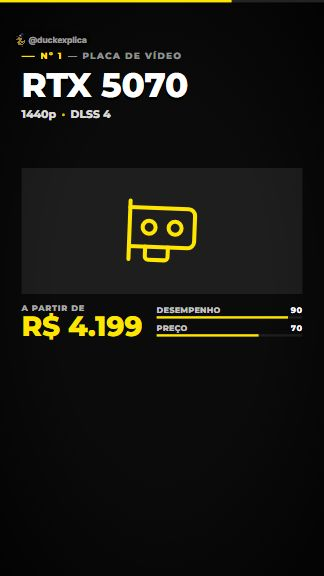
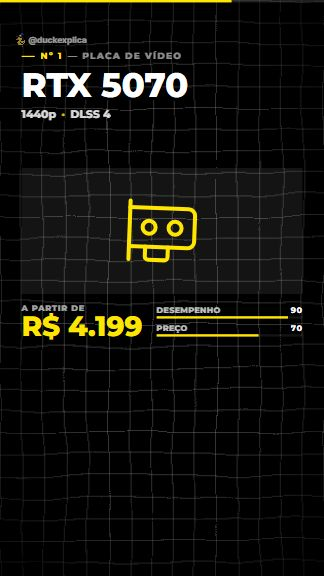
Fundos pretos com grelha de linhas brancas onduladas
Nova GrelhaOndulada (padrão de linhas + deslocamento de turbulência) nos
fundos dos estilos Neon e Pixel 3D, na faixa de cinema, nas palavras em
fundo escuro e nos números dos cortes.

diff --git a/src/cenas/Palavras.tsx b/src/cenas/Palavras.tsx
@@ -1,5 +1,6 @@
 import { AbsoluteFill, random, useVideoConfig } from "remotion";
 import { FONTES, pop, useFrame } from "../components/motion";
+import { GrelhaOndulada } from "../components/GrelhaOndulada";
 import { useOndular } from "../components/PapelMotion";
 import { CenaPalavras } from "../types";
 
@@ -26,10 +27,12 @@ export const Palavras: React.FC<{ cena: CenaPalavras; cor: string }> = ({ cena }
     <AbsoluteFill style={{
       background: papel
         ? "radial-gradient(ellipse at 40% 30%, #f1eee8, #d9d4ca 70%, #c9c2b6)"
-        : "radial-gradient(ellipse at 50% 40%, #1d1013, #09070a 70%)",
+        : "#000",
     }}>
+      {!papel && <GrelhaOndulada opacidade={0.6} />}
+      {!papel && <AbsoluteFill style={{ background: "radial-gradient(ellipse at 50% 40%, #e3262f1c, transparent 65%)" }} />}
       {/* textura: vincos do papel ou grão no escuro */}
-      <AbsoluteFill style={{ opacity: papel ? 0.35 : 0.18, mixBlendMode: papel ? "multiply" : "screen", backgroundImage: `repeating-linear-gradient(${papel ? 37 : 0}deg, #0000 0 22px, #00000014 22px 23px), repeating-linear-gradient(${papel ? 121 : 90}deg, #0000 0 31px, #ffffff10 31px 32px)` }} />
+      {papel && <AbsoluteFill style={{ opacity: 0.35, mixBlendMode: papel ? "multiply" : "screen", backgroundImage: `repeating-linear-gradient(${papel ? 37 : 0}deg, #0000 0 22px, #00000014 22px 23px), repeating-linear-gradient(${papel ? 121 : 90}deg, #0000 0 31px, #ffffff10 31px 32px)` }} />}
       {palavras.map((p, i) => {
         const inicio = Math.round((cena.quando?.[i] ?? i * 0.4) * fps);
         if (f < inicio) return null;

diff --git a/src/components/GrelhaOndulada.tsx b/src/components/GrelhaOndulada.tsx
@@ -1,0 +1,23 @@
+import { AbsoluteFill, useVideoConfig } from "remotion";
+
+// Fundo preto com uma grelha de linhas brancas finas, ligeiramente onduladas (como desenhada à mão):
+// o padrão de linhas passa por um deslocamento de turbulência de baixa frequência. Usado em todos os fundos pretos.
+export const GrelhaOndulada: React.FC<{ passo?: number; opacidade?: number; preto?: boolean }> = ({ passo = 72, opacidade = 0.5, preto = true }) => {
+  const { width: L, height: A } = useVideoConfig();
+  return (
+    <AbsoluteFill style={{ background: preto ? "#000" : undefined }}>
+      <svg width={L} height={A} style={{ position: "absolute", inset: 0 }}>
+        <defs>
+          <pattern id="grelha-celula" width={passo} height={passo} patternUnits="userSpaceOnUse">
+            <path d={`M ${passo} 0 L 0 0 0 ${passo}`} fill="none" stroke="#fff" strokeWidth={2.5} />
+          </pattern>
+          <filter id="grelha-ondas" x="-5%" y="-5%" width="110%" height="110%">
+            <feTurbulence type="fractalNoise" baseFrequency="0.0035" numOctaves={2} seed={7} result="ruido" />
+            <feDisplacementMap in="SourceGraphic" in2="ruido" scale={34} xChannelSelector="R" yChannelSelector="G" />
+          </filter>
+        </defs>
+        <rect x={-passo} y={-passo} width={L + 2 * passo} height={A + 2 * passo} fill="url(#grelha-celula)" filter="url(#grelha-ondas)" opacity={opacidade} />
+      </svg>
+    </AbsoluteFill>
+  );
+};

diff --git a/src/cenas/Clipe.tsx b/src/cenas/Clipe.tsx
@@ -2,6 +2,7 @@ import { AbsoluteFill, OffthreadVideo, Sequence, interpolate, staticFile, useCur
 import { Conteudo, MidiaCartao } from "../components/MidiaReal";
 import { LowPolyCena } from "../lowpoly/LowPolyCena";
 import { PincelCena } from "../pincel/PincelCena";
+import { GrelhaOndulada } from "../components/GrelhaOndulada";
 import { Faixa } from "./Faixa";
 import { Numero } from "./Numero";
 import { Palavras } from "./Palavras";
@@ -83,7 +84,9 @@ const Exemplo: React.FC<{ b: Broll; cor: string; canto: React.ReactNode }> = ({ 
   if (b.layout === "faixa" && b.midia?.arquivo) return <AbsoluteFill><Faixa cena={{ tipo: "faixa", fala: "", midia: b.midia, titulo: b.titulo, duracaoMs }} cor={cor} /></AbsoluteFill>;
   if (b.cena?.tipo === "numero") {
     return (
-      <AbsoluteFill style={{ background: `radial-gradient(ellipse 90% 60% at 50% 40%, ${cor}30, transparent 70%), #050507` }}>
+      <AbsoluteFill style={{ background: "#000" }}>
+        <GrelhaOndulada opacidade={0.6} />
+        <AbsoluteFill style={{ background: `radial-gradient(ellipse 90% 60% at 50% 40%, ${cor}26, transparent 70%)` }} />
         <Numero cena={{ ...b.cena, duracaoMs, palavras: [] }} cor={cor} />
       </AbsoluteFill>
     );

diff --git a/src/components/Fundo.tsx b/src/components/Fundo.tsx
@@ -2,6 +2,7 @@ import { AbsoluteFill, random } from "remotion";
 import { Estilo, useEstilo } from "../estilos";
 import { useFrame } from "./motion";
 import { PapelAquarela } from "./Aquarela";
+import { GrelhaOndulada } from "./GrelhaOndulada";
 
 // Luz difusa vinda de cima, em vez de manchas de cor a flutuar
 const Luz: React.FC<{ cor: string; forte?: boolean }> = ({ cor, forte }) => (
@@ -174,7 +175,9 @@ export const Fundo: React.FC<{ cor: string }> = ({ cor }) => {
   const e = useEstilo();
   return (
     <AbsoluteFill style={{ background: e.fundo, overflow: "hidden" }}>
-      {e.tema === "grelha" && <><Luz cor={cor} /><Grelha cor={cor} f={f} /></>}
+      {/* fundos pretos: grelha de linhas brancas onduladas (o Neon mantém a luz da cor por cima) */}
+      {e.tema === "grelha" && <><GrelhaOndulada opacidade={0.55} /><Luz cor={cor} /></>}
+      {e.tema === "solido" && <GrelhaOndulada opacidade={0.55} />}
       {e.tema === "gradiente" && <Luz cor={cor} forte />}
       {e.tema === "papel" && <Papel e={e} f={f} />}
       {e.tema === "estrelas" && <Estrelas e={e} f={f} />}

diff --git a/src/cenas/Faixa.tsx b/src/cenas/Faixa.tsx
@@ -1,4 +1,5 @@
 import { AbsoluteFill, interpolate, useVideoConfig } from "remotion";
+import { GrelhaOndulada } from "../components/GrelhaOndulada";
 import { Conteudo } from "../components/MidiaReal";
 import { FONTES, pop, useFrame } from "../components/motion";
 import { useEstilo } from "../estilos";
@@ -17,7 +18,8 @@ export const Faixa: React.FC<{ cena: CenaFaixa; cor: string }> = ({ cena, cor })
   const zoom = interpolate(f, [0, d], [1.04, 1.12]);
 
   return (
-    <AbsoluteFill style={{ background: "#050507" }}>
+    <AbsoluteFill style={{ background: "#000" }}>
+      <GrelhaOndulada opacidade={0.55} />
       <AbsoluteFill style={{ background: `radial-gradient(ellipse 90% 55% at 50% 42%, ${cor}2e, transparent 70%)` }} />
       <div style={{ position: "absolute", top: topo, left: 0, width: L, height: h, overflow: "hidden", opacity: s, transform: `translateY(${(1 - s) * 30}px)`, boxShadow: `0 0 80px ${cor}22` }}>
         {cena.midia?.arquivo ? (
